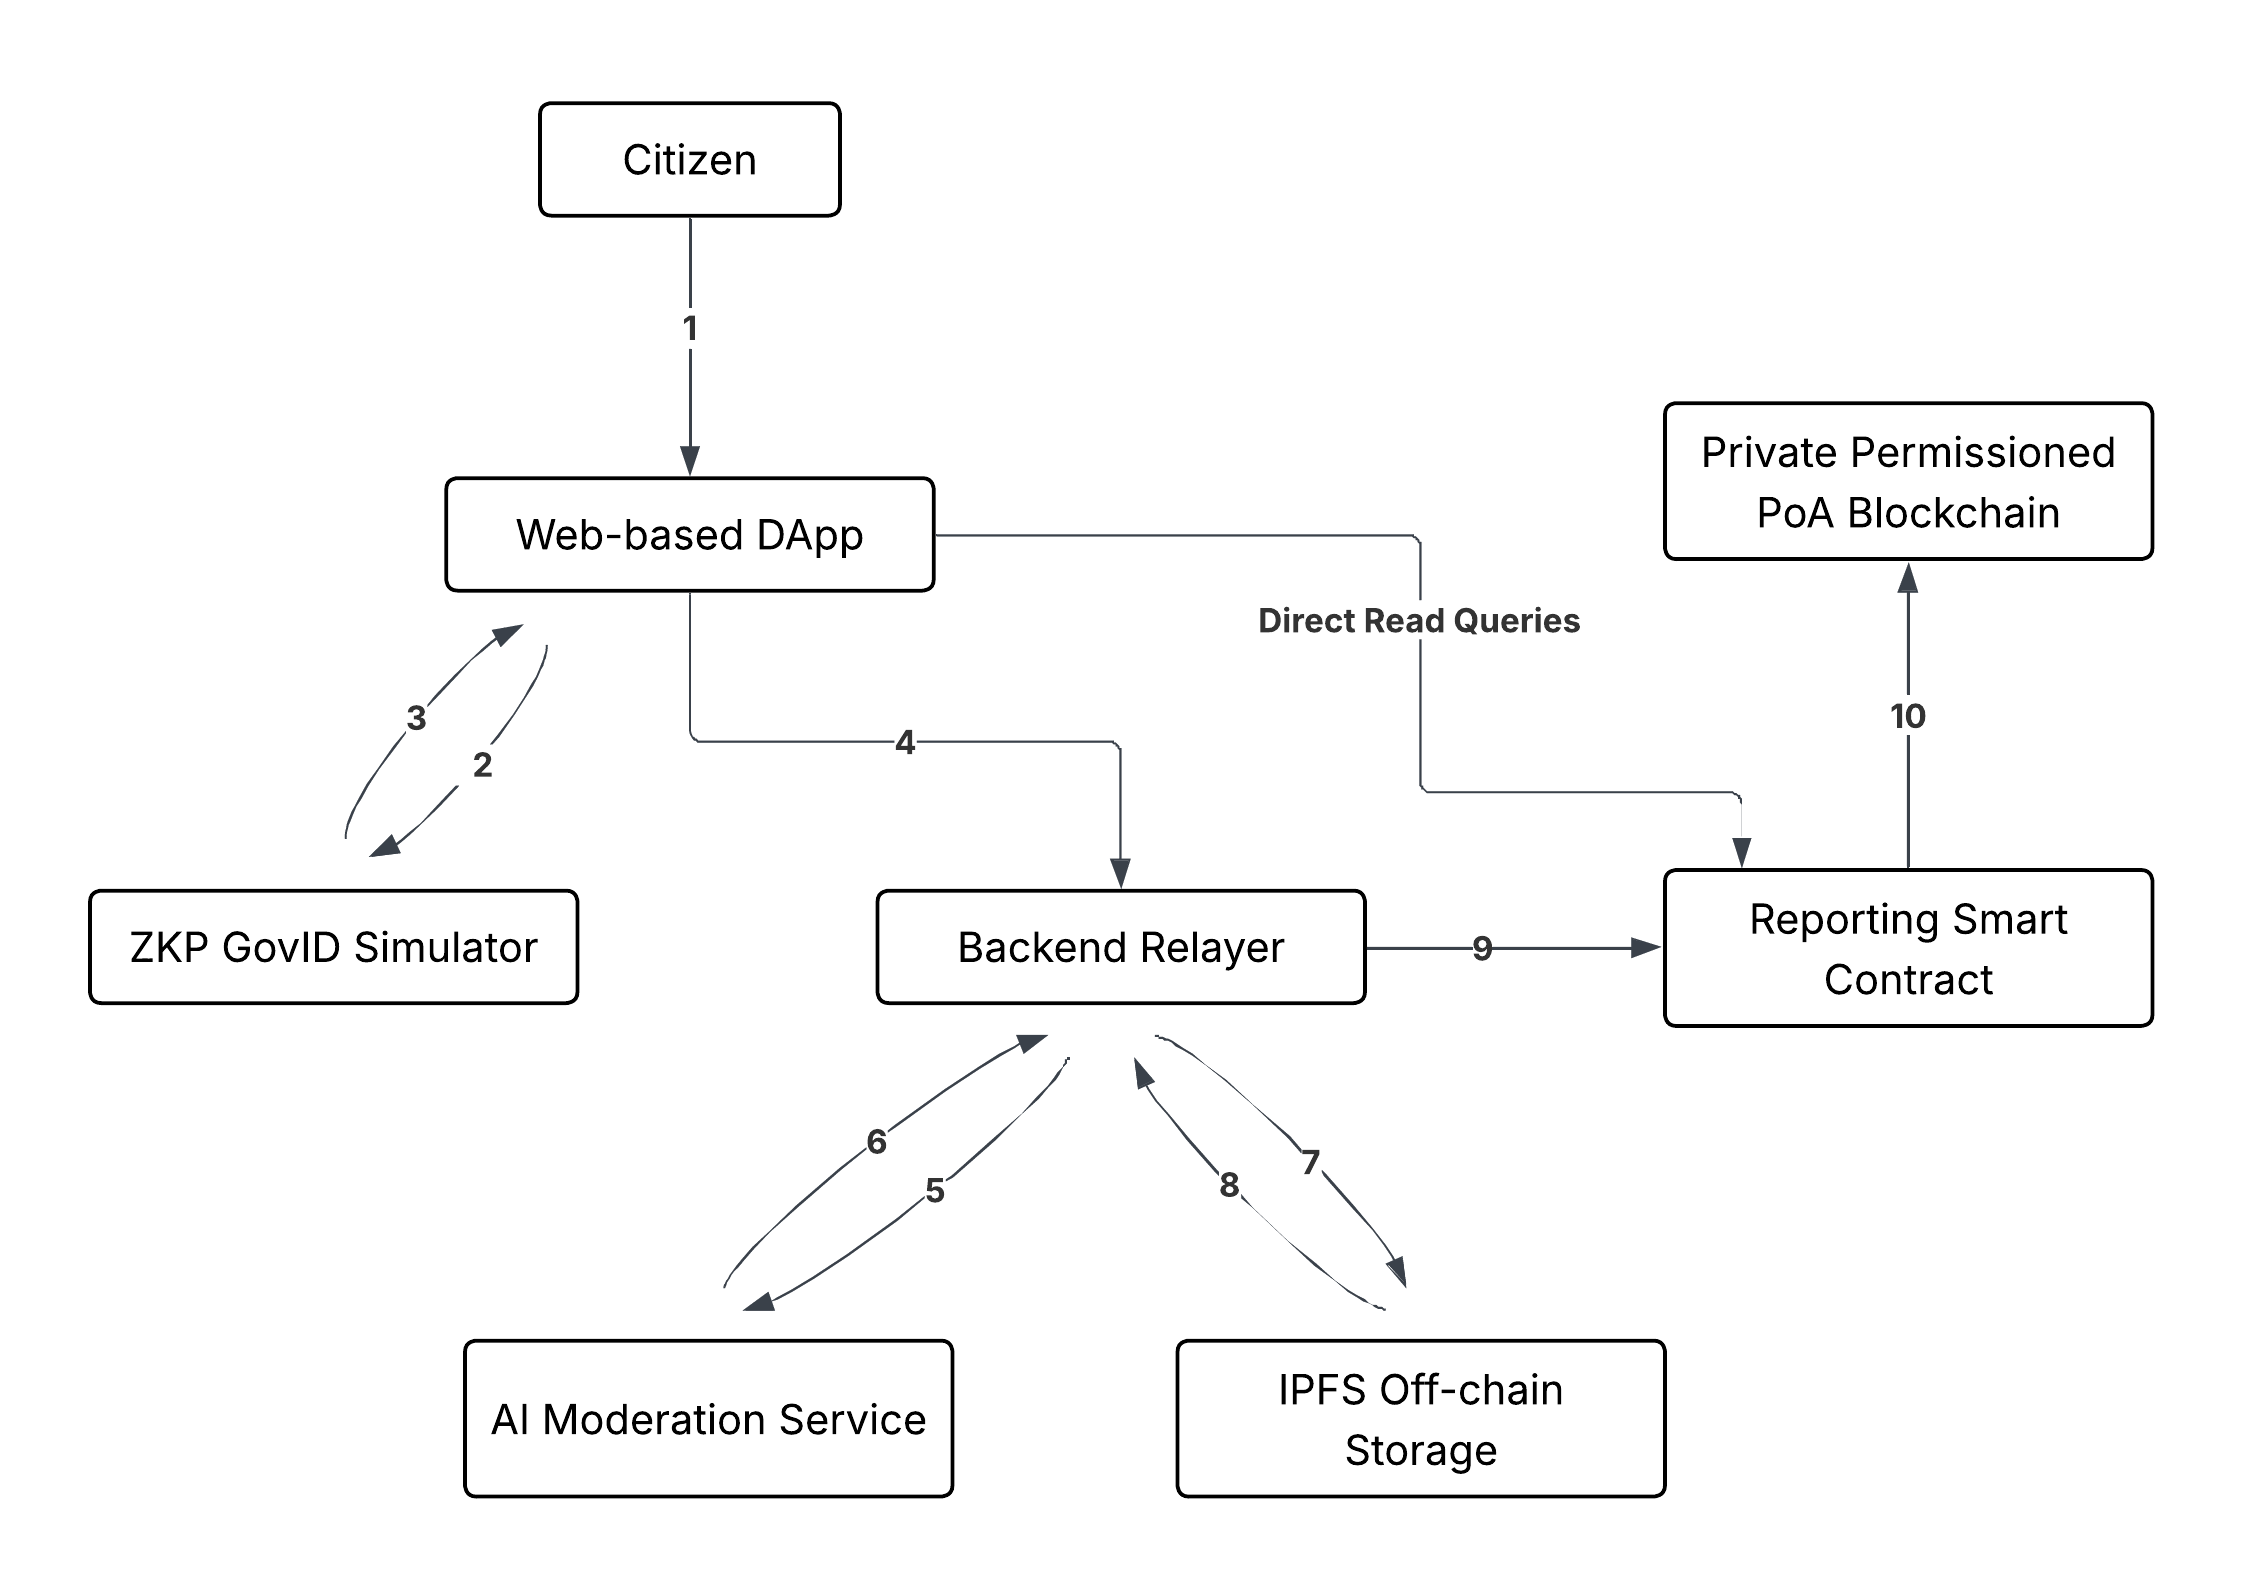
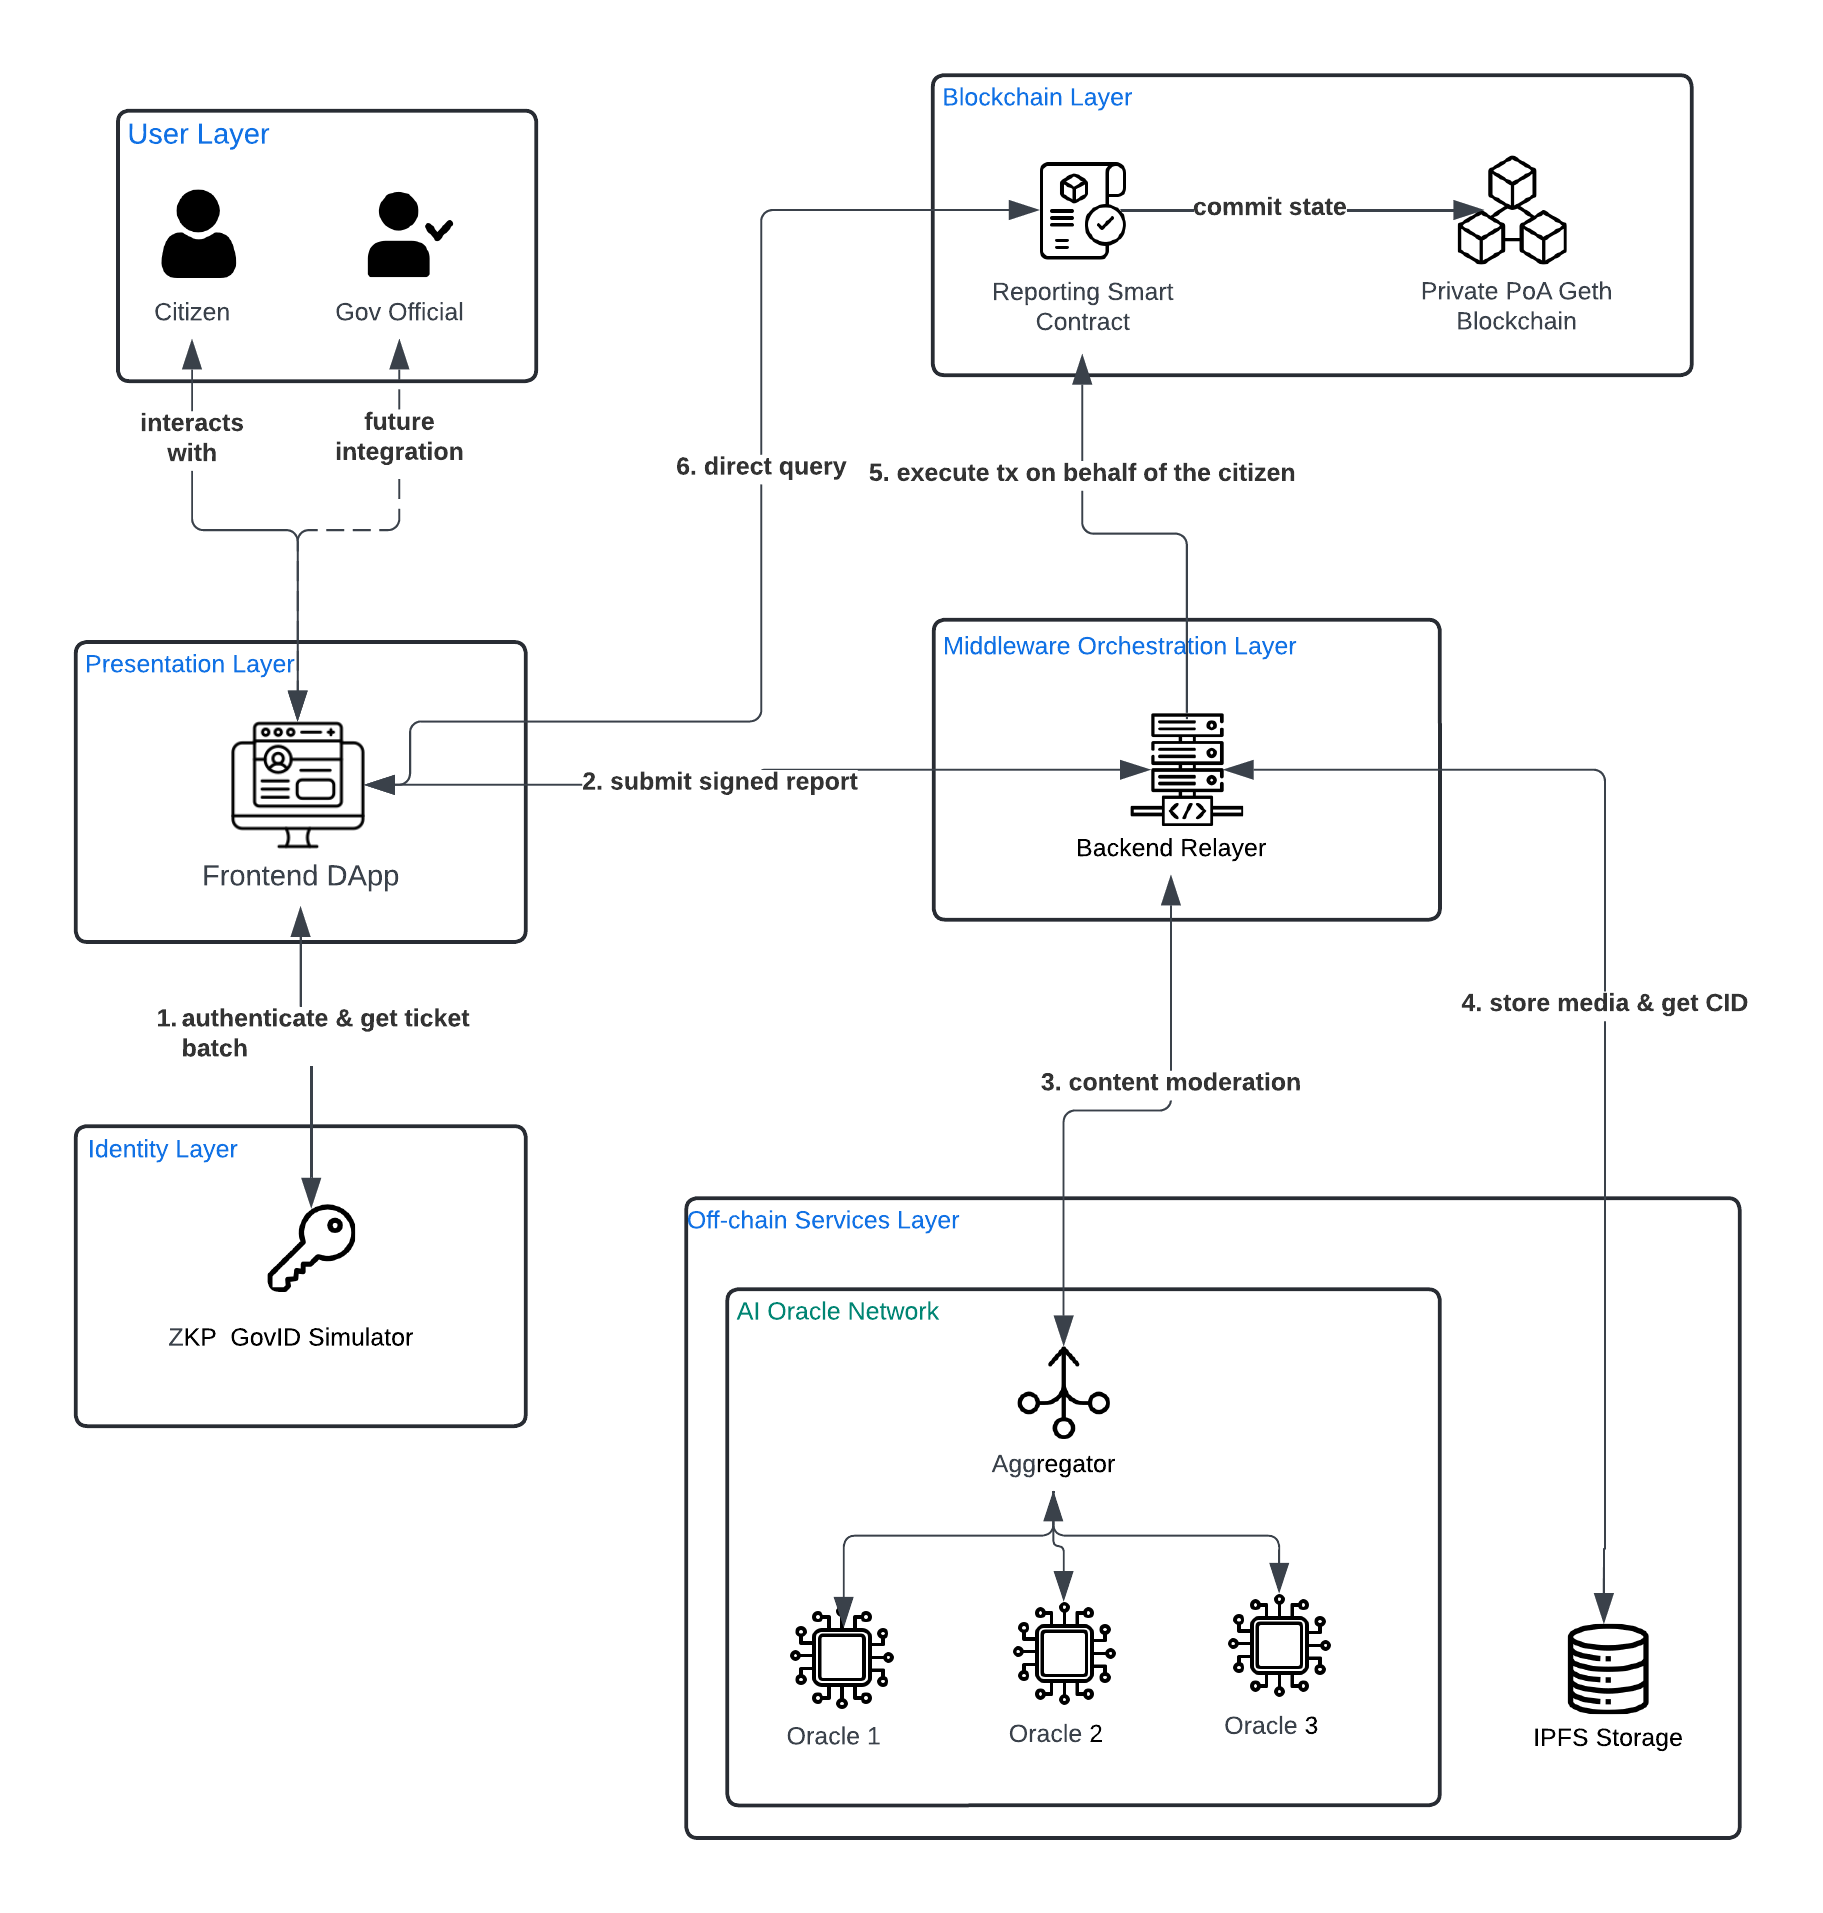
add overall architecture image and update ch3

diff --git a/project-progress/Chapters/ch_3.tex b/project-progress/Chapters/ch_3.tex
@@ -93,7 +93,7 @@ The proposed system uses a hybrid decentralized architecture that combines on-ch
 \begin{figure}[h]
     \centering
     \includegraphics[width=\textwidth]{Images/Chapter_3/overall-architecture.png}
-    \caption{Oracle network architecture for AI moderation.}
+    \caption{High Level Architecture Diagram.}
     \label{fig:overall-architecture}
 \end{figure}
 
@@ -103,9 +103,10 @@ This architecture supports the main project goal of preserving citizen anonymity
 
 \subsubsection{Layered Architecture}
 
-The system can be divided into five major layers.
+The system can be divided into six major layers.
 
 \begin{enumerate}
+    \item User Layer: This layer consists of the citizens and government officials. 
     \item  Presentation layer:
 This layer consists of the DApp used by citizens and government officials. It provides interfaces for login, report submission, report viewing, and future government-side actions.
     \item Identity and authentication layer:
